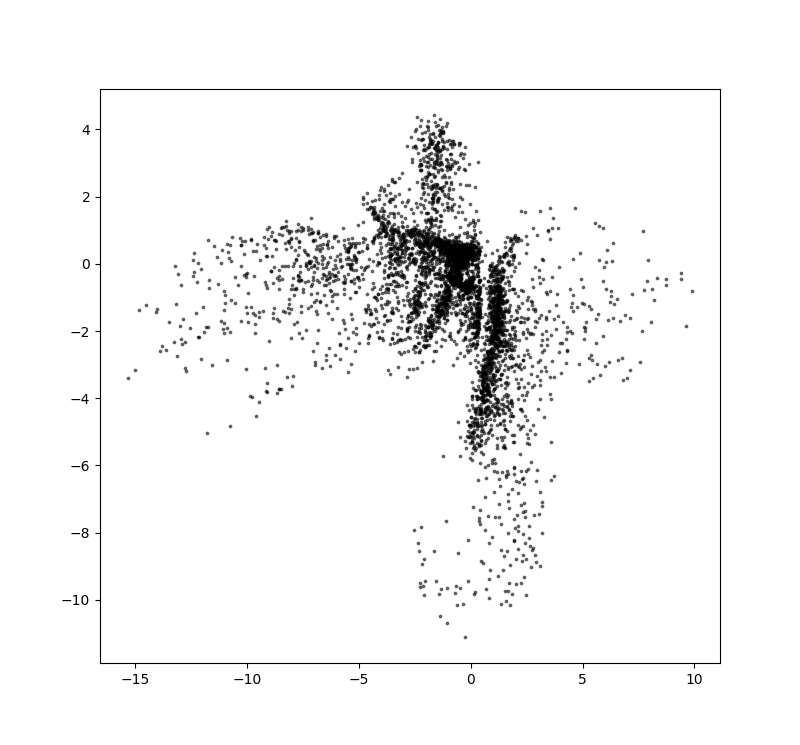
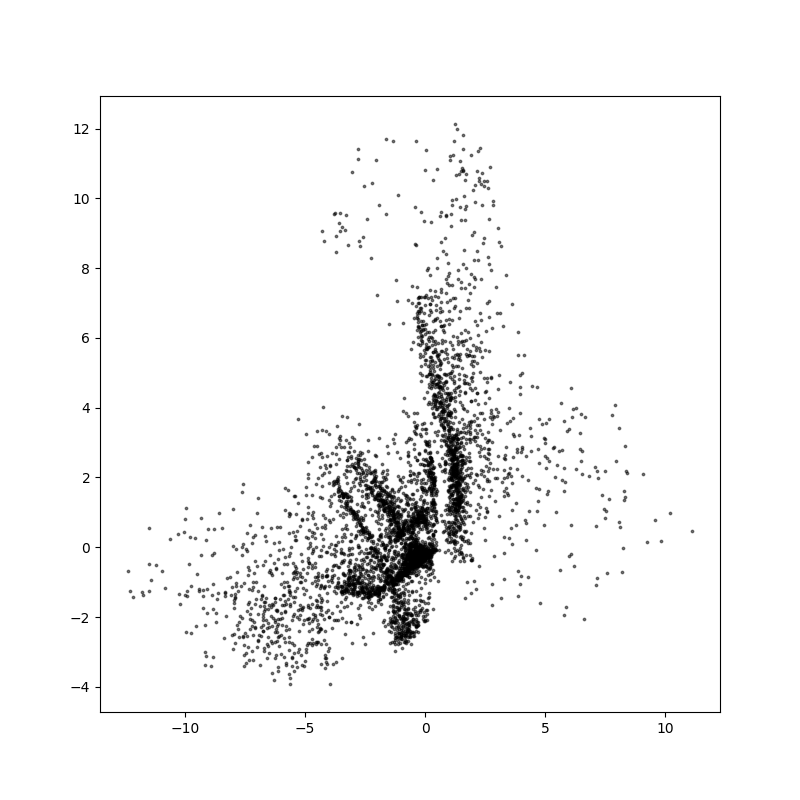
20250617

diff --git a/03-variational-autoencoder/torch/vae_mnist.py b/03-variational-autoencoder/torch/vae_mnist.py
@@ -1,0 +1,147 @@
+import matplotlib.pyplot as plt
+import numpy as np
+import torch
+import torch.nn as nn
+import torch.nn.functional as F
+import torchvision
+from torch.utils.data import DataLoader, TensorDataset
+from tqdm import tqdm
+
+train_data = torchvision.datasets.FashionMNIST("./data", train=True, download=True)
+test_data = torchvision.datasets.FashionMNIST("./data", train=False, download=True)
+
+
+def preprocess(imgs):
+    imgs = imgs.astype("float32") / 255.0
+    imgs = np.pad(imgs, ((0, 0), (2, 2), (2, 2)), constant_values=0.0)
+    imgs = np.expand_dims(imgs, 1)
+    return torch.FloatTensor(imgs)
+
+
+x_train = preprocess(train_data.data.numpy())
+y_train = torch.LongTensor(train_data.targets)
+x_test = preprocess(test_data.data.numpy())
+y_test = torch.LongTensor(test_data.targets)
+
+train_dataset = TensorDataset(x_train, y_train)
+test_dataset = TensorDataset(x_test, y_test)
+
+train_loader = DataLoader(train_dataset, batch_size=100, shuffle=True)
+test_loader = DataLoader(test_dataset, batch_size=100, shuffle=False)
+
+
+class Encoder(nn.Module):
+    def __init__(self):
+        super(Encoder, self).__init__()
+        self.conv1 = nn.Conv2d(1, 32, kernel_size=3, stride=2, padding=1)
+        self.conv2 = nn.Conv2d(32, 64, kernel_size=3, stride=2, padding=1)
+        self.conv3 = nn.Conv2d(64, 128, kernel_size=3, stride=2, padding=1)
+
+        self.shape_before_flattening = (128, 4, 4)
+        self.fc_mu = nn.Linear(128 * 4 * 4, 2)
+        self.fc_logvar = nn.Linear(128 * 4 * 4, 2)
+
+    def forward(self, x):
+        x = F.relu(self.conv1(x))
+        x = F.relu(self.conv2(x))
+        x = F.relu(self.conv3(x))
+
+        batch_size = x.size(0)
+        x = x.view(batch_size, -1)
+
+        z_mean = self.fc_mu(x)
+        z_log_var = self.fc_logvar(x)
+
+        return z_mean, z_log_var
+
+
+class Decoder(nn.Module):
+    def __init__(self, shape_before_flattening=(128, 4, 4)):
+        super(Decoder, self).__init__()
+
+        self.shape_before_flattening = shape_before_flattening
+        self.fc = nn.Linear(2, np.prod(shape_before_flattening))
+
+        self.conv_transpose1 = nn.ConvTranspose2d(
+            128, 128, kernel_size=3, stride=2, padding=1, output_padding=1
+        )
+        self.conv_transpose2 = nn.ConvTranspose2d(
+            128, 64, kernel_size=3, stride=2, padding=1, output_padding=1
+        )
+        self.conv_transpose3 = nn.ConvTranspose2d(
+            64, 32, kernel_size=3, stride=2, padding=1, output_padding=1
+        )
+
+        self.final_conv = nn.Conv2d(32, 1, kernel_size=3, stride=1, padding=1)
+
+    def forward(self, z):
+        x = self.fc(z)
+        x = x.view(x.size(0), 128, 4, 4)
+
+        x = F.relu(self.conv_transpose1(x))
+        x = F.relu(self.conv_transpose2(x))
+        x = F.relu(self.conv_transpose3(x))
+        x = torch.sigmoid(self.final_conv(x))
+
+        return x
+
+
+class VAE(nn.Module):
+    def __init__(self):
+        super(VAE, self).__init__()
+        self.encoder = Encoder()
+        self.decoder = Decoder()
+
+    def sampling(self, z_mean, z_log_var):
+        std = torch.exp(0.5 * z_log_var)
+        eps = torch.randn_like(std)
+        return z_mean + eps * std
+
+    def forward(self, x):
+        z_mean, z_log_var = self.encoder(x)
+        z = self.sampling(z_mean, z_log_var)
+        recon_x = self.decoder(z)
+        return z_mean, z_log_var, recon_x
+
+
+def loss_fn(x, z_mean, z_log_var, recon_x):
+    reconstruction_loss = torch.mean(
+        500 * F.binary_cross_entropy(recon_x, x, reduction="none").sum(dim=(1, 2, 3))
+    )
+    kl_loss = torch.mean(
+        torch.sum(-0.5 * (1 + z_log_var - z_mean.pow(2) - z_log_var.exp()), dim=1)
+    )
+
+    return reconstruction_loss + kl_loss
+
+
+model = VAE()
+optimizer = torch.optim.Adam(model.parameters(), lr=0.0005)
+
+for epoch in tqdm(range(5)):
+    for x, y in train_loader:
+        z_mean, z_log_var, recon_x = model(x)
+        loss = loss_fn(x, z_mean, z_log_var, recon_x)
+
+        optimizer.zero_grad()
+        loss.backward()
+        optimizer.step()
+
+model.eval()
+
+grid_width, grid_height = (6, 3)
+sample = torch.FloatTensor(np.random.normal(size=(grid_width * grid_height, 2)))
+
+plt.figure(figsize=(8, 8))
+plt.scatter(sample[:, 0], sample[:, 1], c="black", alpha=0.5, s=3)
+plt.show()
+
+with torch.no_grad():
+    reconstructions = model.decoder(sample).numpy()
+
+plt.figure(figsize=(8, 8))
+for i in range(18):
+    plt.subplot(3, 6, i + 1)
+    plt.imshow(reconstructions[i].squeeze(), cmap="gray")
+    plt.axis("off")
+plt.show()

diff --git a/03-variational-autoencoder/keras/vae_mnist.py b/03-variational-autoencoder/keras/vae_mnist.py
@@ -10,7 +10,7 @@ class Sampling(layers.Layer):
         z_mean, z_log_var = inputs
         batch = tf.shape(z_mean)[0]
         dim = tf.shape(z_mean)[1]
-        epsilon = K.random_normal(shape=(batch, dim))
+        epsilon = tf.random.normal(shape=(batch, dim))
         return z_mean + tf.exp(0.5 * z_log_var) * epsilon
 
 
@@ -78,7 +78,8 @@ x = layers.Conv2D(32, (3, 3), strides=2, activation="relu", padding="same")(
 )
 x = layers.Conv2D(64, (3, 3), strides=2, activation="relu", padding="same")(x)
 x = layers.Conv2D(128, (3, 3), strides=2, activation="relu", padding="same")(x)
-shape_before_flattening = K.int_shape(x)[1:]
+# shape_before_flattening = K.int_shape(x)[1:]
+shape_before_flattening = (128, 4, 4)
 
 x = layers.Flatten()(x)
 z_mean = layers.Dense(2, name="z_mean")(x)
@@ -102,3 +103,18 @@ decoder = models.Model(decoder_input, decoder_output)
 vae = VAE(encoder, decoder)
 vae.compile(optimizer="adam")
 vae.fit(x_train, epochs=5, batch_size=100)
+
+example_images = x_test[:5000]
+predictions = autoencoder.predict(example_images)
+
+embeddings = predictions
+plt.figure(figsize=(8, 8))
+plt.scatter(embeddings[:, 0], embeddings[:, 1], c="black", alpha=0.5, s=3)
+plt.show()
+
+mins, maxs = np.min(embeddings, axis=0.5), np.max(embeddings, axis=0)
+sample = np.random.uniform(mins, maxs, size=(18, 2))
+reconstructions = decoder.predict(sample)
+plt.figure(figsize=(8, 8))
+plt.scatter(reconstructions[:, 0], reconstructions[:, 1], c="black", alpha=0.5, s=3)
+plt.show()

diff --git a/03-variational-autoencoder/torch/ae.py b/03-variational-autoencoder/torch/ae.py
@@ -86,9 +86,9 @@ class Decoder(nn.Module):
         return x
 
 
-class Autoencoder(nn.Module):
+class AE(nn.Module):
     def __init__(self):
-        super(Autoencoder, self).__init__()
+        super(AE, self).__init__()
         self.encoder = Encoder()
         self.decoder = Decoder()
 
@@ -98,7 +98,7 @@ class Autoencoder(nn.Module):
         return decoded
 
 
-model = Autoencoder()
+model = AE()
 optimizer = torch.optim.Adam(model.parameters(), lr=0.001)
 loss_fn = nn.BCELoss()
 
